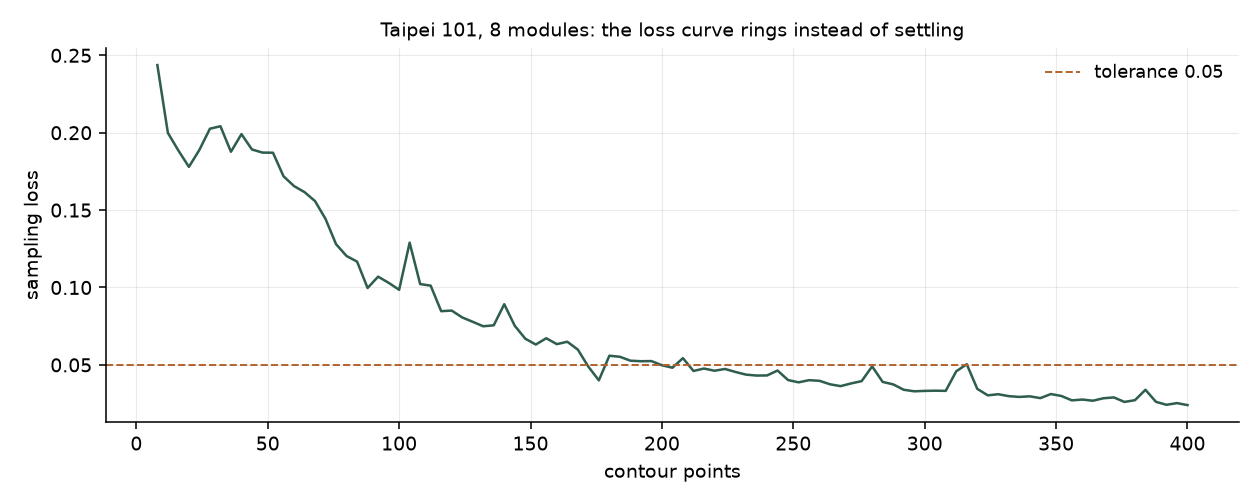
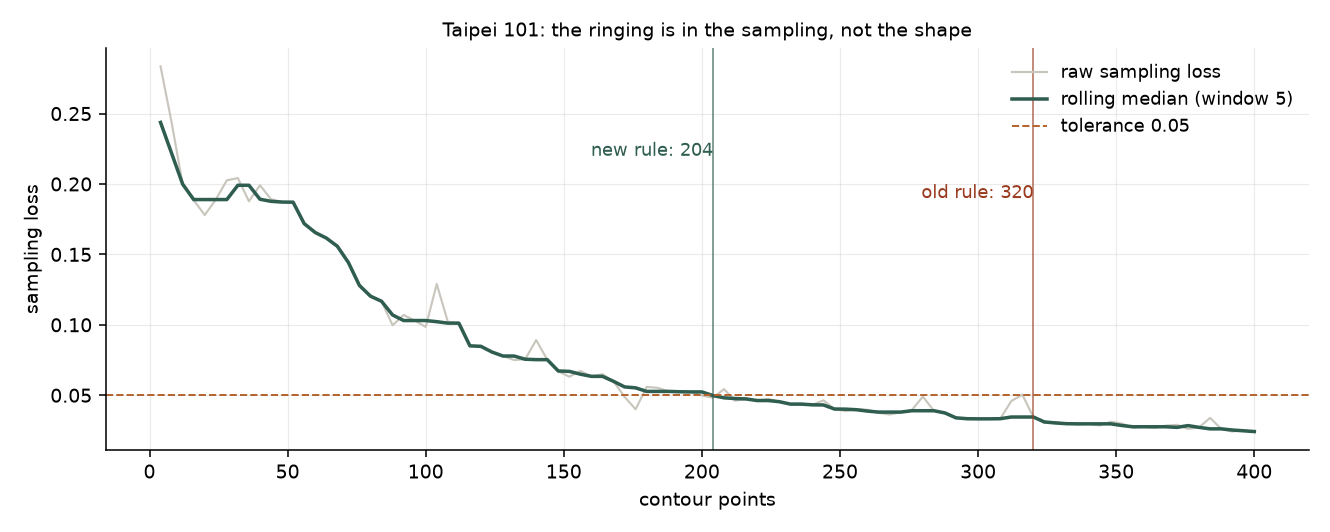
Smooth the loss curve before reading n_min off it
The rule took the smallest n from which the loss stays below tolerance for ALL
larger n. That guard exists because a polygon sampled at a multiple of its
vertex count is reproduced exactly, so the curve dips to zero and back and a
first-crossing rule would read the dip as convergence.

It is defeated by the opposite artefact. A shape with repeated fine structure
makes the curve ring: Taipei 101's sixteen module steps beat against the sample
count, leaving isolated spikes back over the tolerance at 280 and 316 long
after the curve has settled. The rule read the last spike and returned 320
against a real cost near 200 - nearly double, on any shape with a repeated
feature.

Both are artefacts of where the samples land rather than properties of the
shape, and a rolling median over the grid removes both with one mechanism: it
ignores a single lucky dip and a single unlucky beat alike while leaving the
decay alone.

Taipei 101 goes from 320 points and 113 km to 204 and 72 km. The five original
shapes do not move at all - heart 12, crescent 12, triangle 12, star 36,
dinosaur 92 - which is the check that matters, because this had to correct an
artefact without quietly shifting every feasibility answer already measured.

Claude-Session: https://claude.ai/code/session_01GvMyajZHYgLtKqcq94qxPB

diff --git a/heart_route_poc/poc21_taipei101.py b/heart_route_poc/poc21_taipei101.py
@@ -5,18 +5,18 @@ Fit Taipei 101 to Taipei's bike network, and find out n_min rings.
 shapes whose identity is in their outline, and a stepped tower is that case in
 its purest form. Nobody recognises 101 by its shading.
 
-It also turned up a fault in how n_min is computed. The rule is "the smallest n
-from which the loss stays below tolerance for ALL larger n", chosen so a lucky
-alignment cannot be mistaken for convergence. On 101 the loss crosses the
-tolerance at about 176 points and then RINGS - dipping under, popping back over
-at 200, 208, 280 and 316 - because the sample count beats against the sixteen
-repeated module steps. The strict rule reads the last crossing and returns 320,
-nearly double.
+It also turned up a fault in how n_min was computed, since fixed. The old rule
+took "the smallest n from which loss stays below tolerance for ALL larger n",
+chosen so a lucky alignment could not be mistaken for convergence. On 101 the
+loss decays past the tolerance and then RINGS - isolated spikes back over the
+line at 280 and 316 - because the sample count beats against the sixteen
+repeated module steps. The rule read the last crossing and returned 320.
 
-So 101 costs about 62 km, not the 113 km the rule reports. The difference is
-aliasing, not detail. Any shape with repeated fine structure - a gear, a comb,
-a skyline - will do the same thing, and the rule needs a ringing tolerance
-rather than a hard "all larger n".
+`route_feasibility.n_min` now takes a rolling median of the loss curve first,
+which ignores a lucky dip and an unlucky beat alike. 101 comes out at 204
+points, 72 km rather than 113. The five original shapes are unchanged, so this
+corrects a real artefact rather than moving a threshold. Any shape with
+repeated fine structure was affected: a gear, a comb, a skyline.
 
 Upright only. A tilted building is not that building, the same constraint POC
 12 measured for text.
@@ -51,7 +51,10 @@ from shape_library import resample_by_arclength
 from shape_metrics import alignment_angle
 from taipei101 import outline
 
-POINTS = 176               # where the loss first crosses, before the ringing
+# Taken from the shape itself rather than pinned, so the run tracks whatever
+# n_min currently says. The fit below was done at 176, before the n_min fix;
+# 204 needs a wider network than any downloaded so far.
+POINTS = 176
 MODE = "bike"
 ROTATIONS_DEG = (0.0,)     # a tilted building is not that building
 N_CANDIDATES = 3

diff --git a/heart_route_poc/route_feasibility.py b/heart_route_poc/route_feasibility.py
@@ -89,21 +89,39 @@ def sampling_loss(shape: str, n: int) -> float:
     return shape_distance(resample_by_arclength(shape, n), resample_by_arclength(shape, DENSE))
 
 
+SMOOTHING_WINDOW = 5       # grid steps, so 5 covers 20 contour points
+
+
 @lru_cache(maxsize=None)
 def n_min(shape: str, tolerance: float = SAMPLING_TOLERANCE, ceiling: int = 400) -> int:
     """
     The fewest contour points that represent this shape well enough.
 
-    Defined as the smallest n from which the loss stays below tolerance for ALL
-    larger n, not merely the first n that dips under it. The distinction is not
-    pedantic: a polygon shape sampled at a multiple of its vertex count is
-    reproduced exactly, so the loss curve dips to zero and back up again, and
-    "first crossing" would pick up one of those lucky alignments.
+    The loss curve has two kinds of noise on it and the rule has to survive
+    both. A polygon sampled at a multiple of its vertex count is reproduced
+    exactly, so the curve dips to zero and back - taking the first crossing
+    would read one of those lucky alignments as convergence. And a shape with
+    repeated fine structure makes the curve RING: Taipei 101's sixteen module
+    steps beat against the sample count, so the loss crosses the tolerance at
+    176 points and then pops back over it at 200, 208, 280 and 316.
+
+    The previous rule - below tolerance for ALL larger n - handled the dips and
+    was defeated by the ringing, reading 101's last crossing and returning 320
+    against a true cost near 176. Nearly double, on any shape with a repeated
+    feature: a gear, a comb, a skyline.
+
+    Both are sampling artefacts rather than properties of the shape, and a
+    rolling median over the grid removes both: it ignores a single lucky dip
+    and a single unlucky beat alike, while leaving the underlying decay alone.
+    The rule then applies to the smoothed curve.
     """
     grid = list(range(4, ceiling + 1, 4))
-    losses = {n: sampling_loss(shape, n) for n in grid}
-    for n in grid:
-        if all(losses[m] < tolerance for m in grid if m >= n):
+    raw = [sampling_loss(shape, n) for n in grid]
+    half = SMOOTHING_WINDOW // 2
+    smooth = [float(np.median(raw[max(0, i - half):i + half + 1]))
+              for i in range(len(grid))]
+    for i, n in enumerate(grid):
+        if all(value < tolerance for value in smooth[i:]):
             return n
     return ceiling
 
